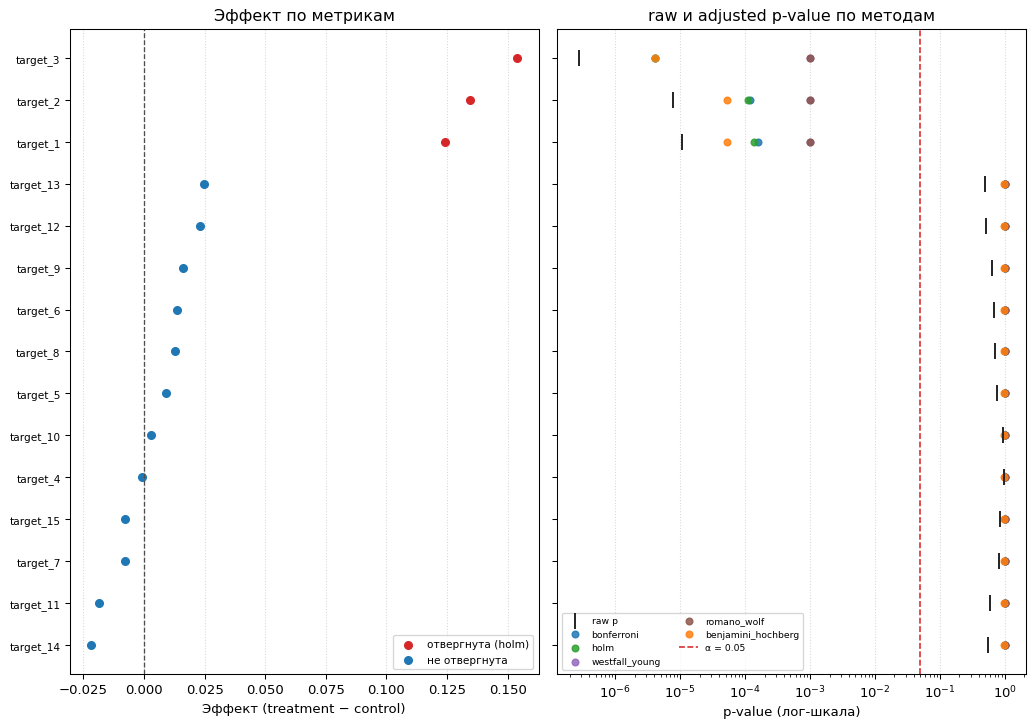
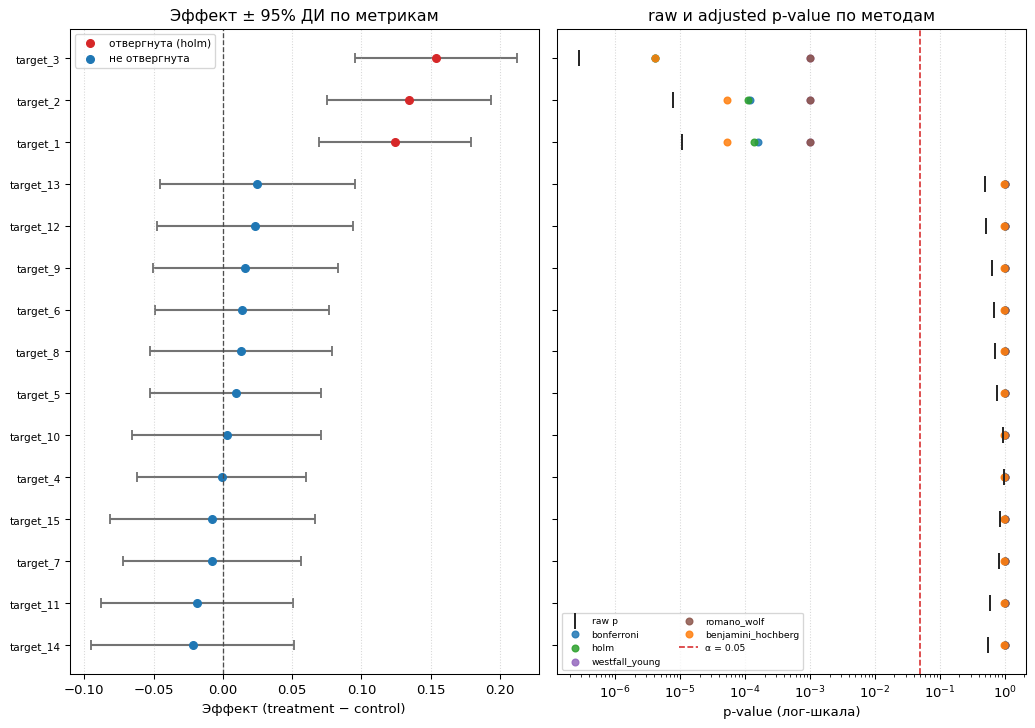
R&D-8: доверительные интервалы реально рисуются на forest-плоте
Баг: run_comparison отдавал компактную table без ci_low/ci_high, поэтому forest-плот
молча пропускал error bars (has_ci=False) — ДИ не было видно. Теперь ci_low/ci_high
из Welch-теста несутся в result.table, а error bars сделаны заметнее (толще, с засечками).
Обновлён вшитый pipeline.py/plots.py в internal-ноутбуке, фигура и PDF пересобраны.

diff --git a/src/rnd_reports/multiple_testing/pipeline.py b/src/rnd_reports/multiple_testing/pipeline.py
@@ -141,8 +141,9 @@ def run_comparison(
         n_resamples=n_resamples, random_state=random_state,
     )
 
-    # Компактная таблица для просмотра глазами: статистики + adj p-value + reject-флаги.
-    cols = ["target", "effect", "p_value"]
+    # Компактная таблица для просмотра глазами: эффект с ДИ + adj p-value + reject-флаги.
+    # ci_low/ci_high из Welch-теста несём дальше — нужны для forest-плота эффектов.
+    cols = ["target", "effect", "ci_low", "ci_high", "p_value"]
     for name in METHOD_NAMES:
         cols += [f"p_adj_{name}", f"reject_{name}"]
     table = corrected[cols].sort_values("p_value").reset_index(drop=True)

diff --git a/src/rnd_reports/multiple_testing/plots.py b/src/rnd_reports/multiple_testing/plots.py
@@ -55,8 +55,8 @@ def plot_pvalue_comparison(result, alpha: float = 0.05, reference_method: str = 
     if has_ci:
         xerr = np.vstack([table["effect"] - table["ci_low"],
                           table["ci_high"] - table["effect"]])
-        ax_l.errorbar(table["effect"], y, xerr=xerr, fmt="none", ecolor="0.6",
-                      elinewidth=1.3, capsize=2, zorder=1)
+        ax_l.errorbar(table["effect"], y, xerr=xerr, fmt="none", ecolor="0.45",
+                      elinewidth=1.6, capsize=4, capthick=1.4, zorder=1)
     for sig, color, label in [(True, "#d62728", f"отвергнута ({reference_method})"),
                               (False, "#1f77b4", "не отвергнута")]:
         mask = rejected == sig